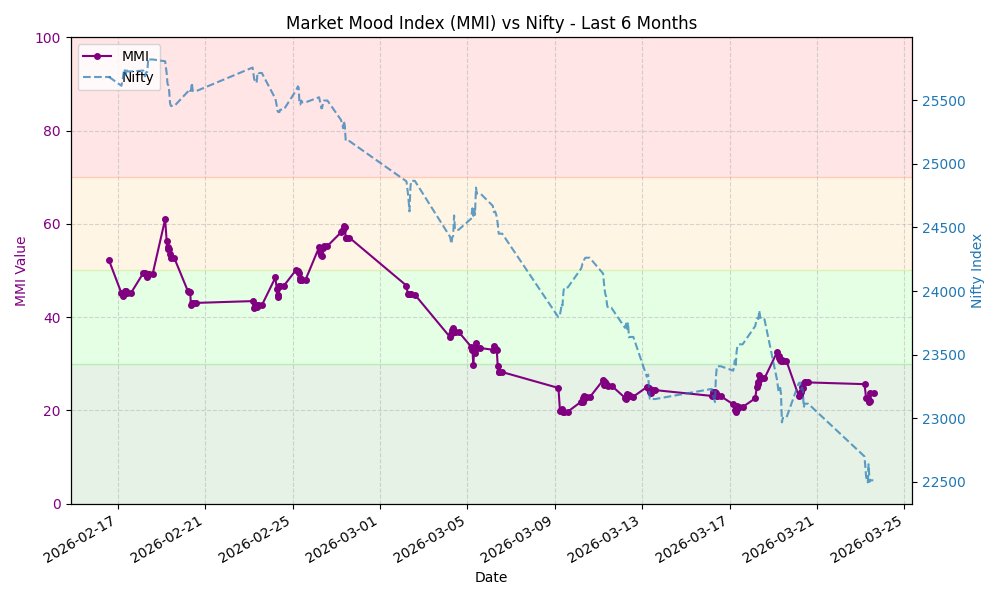
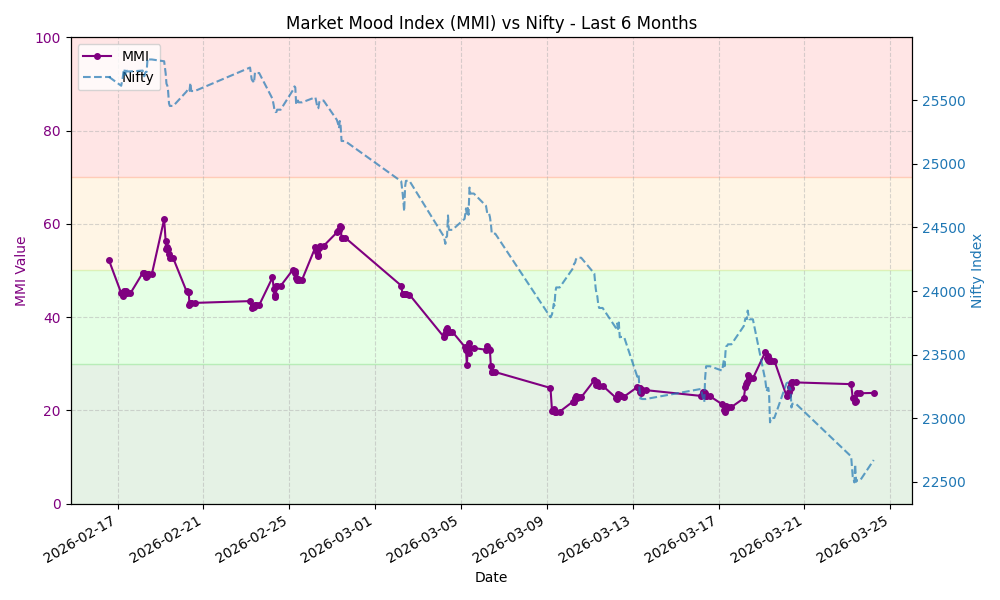
Update MMI data and chart

diff --git a/README.md b/README.md
@@ -7,8 +7,8 @@ This repository automatically fetches the MMI value, stores the history, and gen
 
 ## Latest MMI Value
 
-**23.67** - **Extreme Fear**
-<small>Last Updated: 2026-03-23 14:20 UTC</small>
+**23.74** - **Extreme Fear**
+<small>Last Updated: 2026-03-24 05:27 UTC</small>
 
 ## MMI Trend (Last 30 Days)
 
